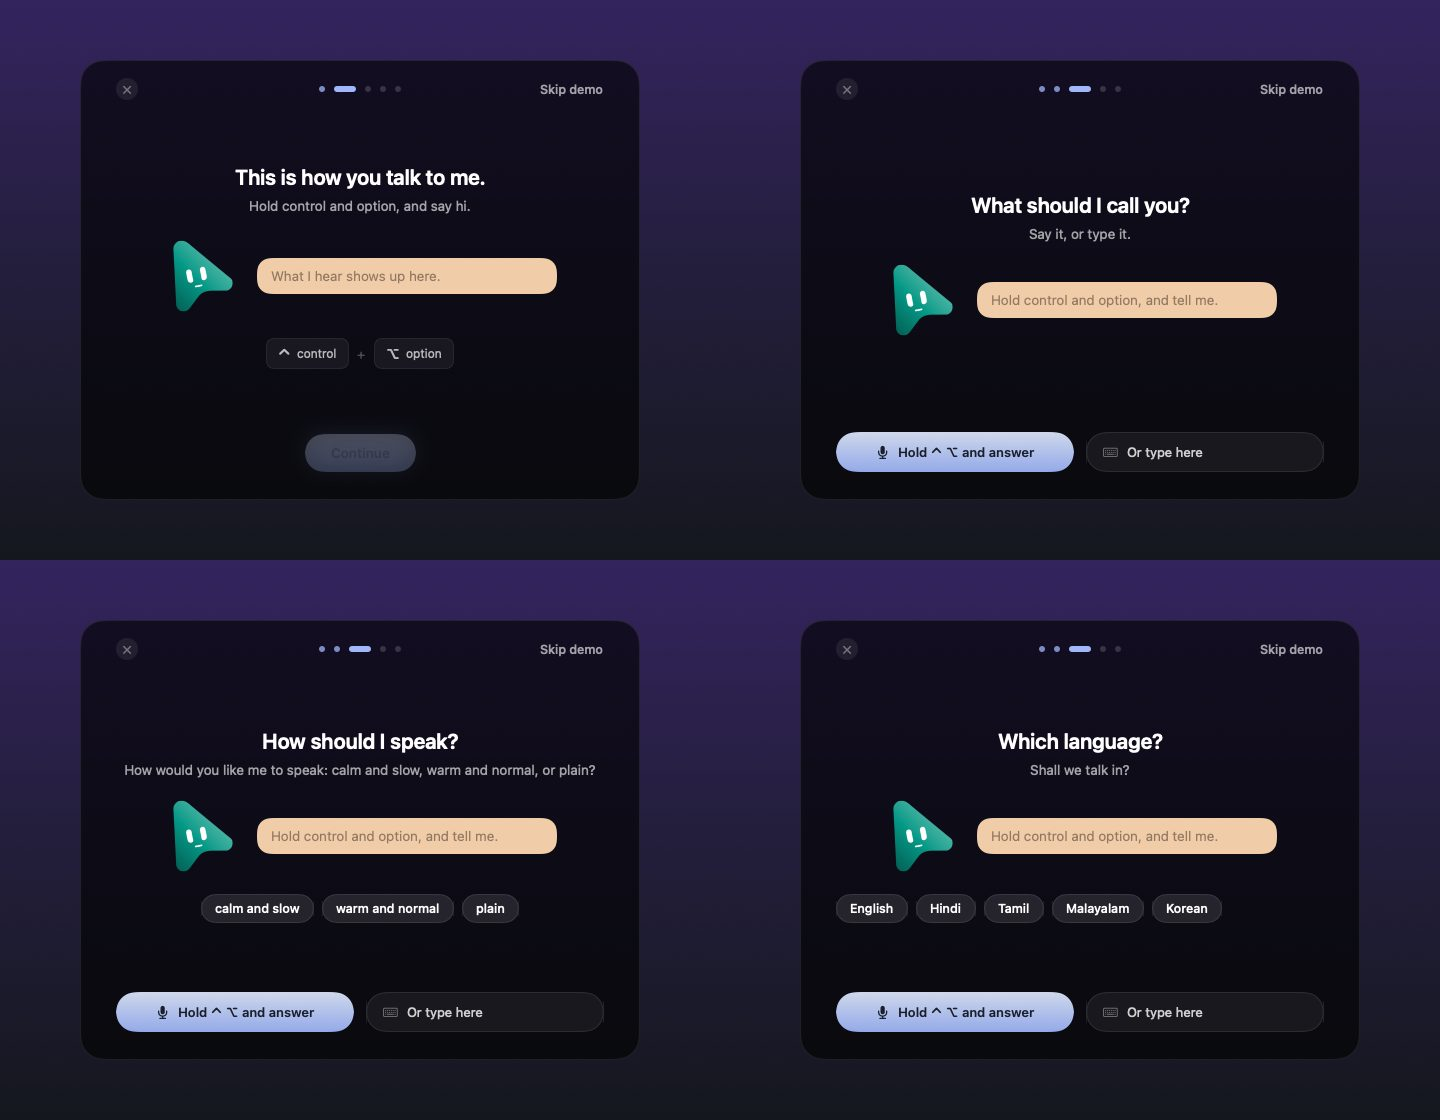
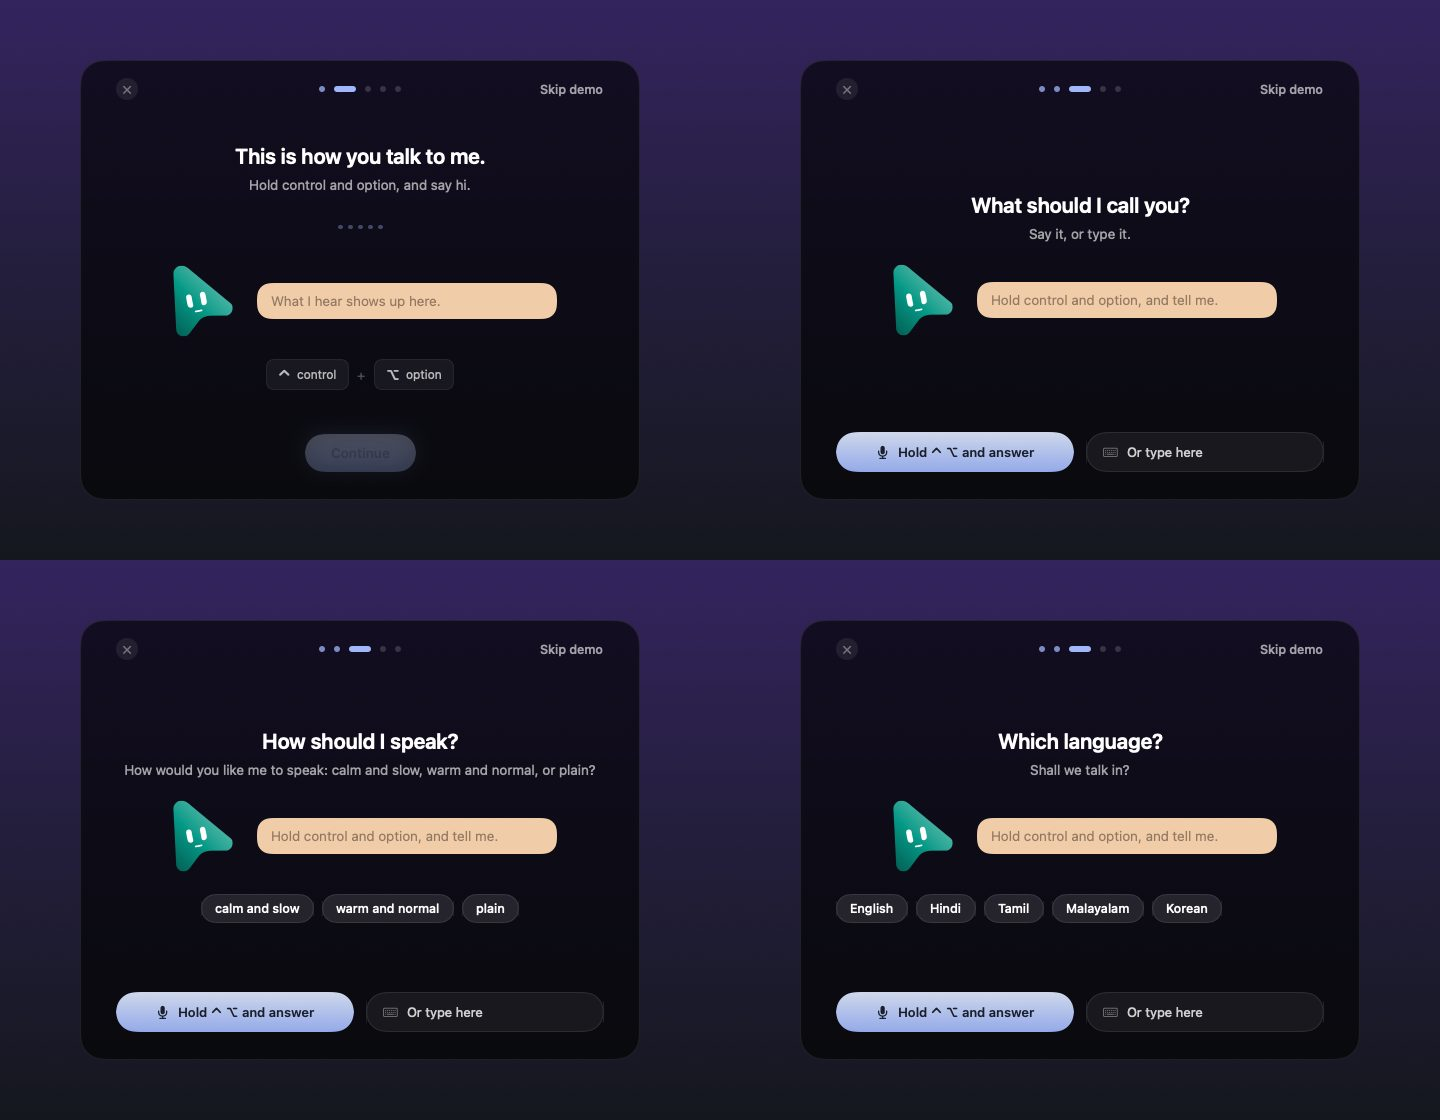
The mic check has its bars, and shows the words as they are made out
The chain session reports an input level about twenty times a second while a
turn is open, and what has been recognised so far. The level is in decibels:
on a linear scale ordinary speech sits in the bottom tenth and the bars barely
twitch, which reads as 'it cannot hear me'. They rise at once and fall slowly,
so they do not flicker between syllables, and rest when the turn ends. The
spoken line promises bars again, now that there are some.

Changed region(s): [[0.0938, 0.2188, 0.4062, 0.3438], [0.1562, 0.125, 0.3438, 0.1875]]

diff --git a/macos/Saathi/Tests/SaathiShellTests/OnboardingCoordinatorTests.swift b/macos/Saathi/Tests/SaathiShellTests/OnboardingCoordinatorTests.swift
@@ -321,7 +321,7 @@ final class OnboardingCoordinatorTests: XCTestCase {
         await toMicCheck(c)
         XCTAssertEqual(listening, [true])
         XCTAssertTrue(c.isListening)
-        XCTAssertEqual(spoken.last, "Can I hear you? Say anything, and I'll show you what I heard.")
+        XCTAssertEqual(spoken.last, "Can I hear you? Say anything. You'll see the bars move, and I'll show you what I heard.")
 
         try? await Task.sleep(nanoseconds: 120_000_000)
         XCTAssertEqual(listening, [true, false], "stopping is what makes the session hand over a transcript")
@@ -338,6 +338,33 @@ final class OnboardingCoordinatorTests: XCTestCase {
         await toMicCheck(c)
         c.skipDemo(); await settle(c)
         XCTAssertEqual(listening, [true, false])
+    }
+
+    /// The bars rise at once and fall slowly — bars that drop to nothing between syllables flicker —
+    /// and what has been made out so far shows before the turn has ended.
+    func testTheBarsAndTheLiveWordsFollowAnOpenTurnAndRestWhenItEnds() async {
+        let c = coordinator()
+        c.listenFor = 5
+        await toMicCheck(c)
+        c.listening(level: 0.8, partial: nil)
+        XCTAssertEqual(c.level, 0.8, accuracy: 0.001)
+        c.listening(level: 0.1, partial: "hello sa")
+        XCTAssertEqual(c.level, 0.64, accuracy: 0.001, "down slowly")
+        XCTAssertEqual(c.bubble, "hello sa")
+        XCTAssertFalse(c.model.heardSomething, "a preview is not yet being heard: the turn has not ended")
+
+        c.heard("hello saathi")
+        XCTAssertEqual(c.level, 0)
+        XCTAssertEqual(c.bubble, "hello saathi")
+        XCTAssertTrue(c.model.canContinue)
+    }
+
+    func testLevelsOutsideTheListeningCardsAreIgnored() async {
+        let c = coordinator()
+        c.begin()
+        c.listening(level: 0.9, partial: "hello")
+        XCTAssertEqual(c.level, 0)
+        XCTAssertEqual(c.bubble, "")
     }
 
     /// A room too quiet to transcribe is not a locked door.
@@ -436,5 +463,18 @@ final class OnboardingEntryTests: XCTestCase {
     /// Quit halfway through: a colour and a name are on disk, `onboarded` is not. It comes back.
     func testAnInterruptedFirstRunComesBack() {
         XCTAssertTrue(AppController.shouldOnboard(SaathiConfiguration(name: "Asha", colour: "teal")))
+    }
+}
+
+
+final class OnboardingBarsTests: XCTestCase {
+
+    func testBarsRestSmallAndTheMiddleOneIsTallest() {
+        XCTAssertEqual(OnboardingCardView.barHeight(level: 0, shape: 1), 4)
+        XCTAssertEqual(OnboardingCardView.barHeight(level: 1, shape: 1), 30)
+        XCTAssertEqual(OnboardingCardView.barHeight(level: 7, shape: 1), 30, "clamped")
+        XCTAssertLessThan(
+            OnboardingCardView.barHeight(level: 0.5, shape: OnboardingCardView.barShape[0]),
+            OnboardingCardView.barHeight(level: 0.5, shape: OnboardingCardView.barShape[2]))
     }
 }

diff --git a/macos/Saathi/Sources/SaathiShell/OnboardingCoordinator.swift b/macos/Saathi/Sources/SaathiShell/OnboardingCoordinator.swift
@@ -59,6 +59,8 @@ public final class OnboardingCoordinator: ObservableObject {
     @Published public private(set) var isSpeaking = false
     /// The mic check has a turn open: the card shows that it is listening.
     @Published public private(set) var isListening = false
+    /// How loud the microphone is, 0…1, while a turn is open. The bars on the listening cards.
+    @Published public private(set) var level: Float = 0
 
     private let effects: OnboardingEffects
     private var speech: Task<Void, Never>?
@@ -94,6 +96,7 @@ public final class OnboardingCoordinator: ObservableObject {
     /// A transcript from the voice session. On a question it is the answer; on the two listening
     /// steps it is proof of being heard; anywhere else it is not first run's business.
     public func heard(_ text: String) {
+        level = 0   // the turn is over; the bars come to rest
         switch model.step {
         case .demo(.question):
             bubble = text
@@ -107,6 +110,21 @@ public final class OnboardingCoordinator: ObservableObject {
     }
 
     public func keysHeld() { send(.keysHeld) }
+
+    /// Live from an open turn: how loud, and what has been made out so far. Only the cards that
+    /// listen show either; the words are a preview, and the turn's final transcript still arrives
+    /// through `heard`.
+    public func listening(level: Float?, partial: String?) {
+        switch model.step {
+        case .demo(.micCheck), .demo(.holdToTalk), .demo(.question): break
+        default: return
+        }
+        if let level {
+            // Up at once, down slowly: bars that fall to nothing between syllables flicker.
+            self.level = max(level, self.level * 0.8)
+        }
+        if let partial, !partial.isEmpty { bubble = partial }
+    }
 
     /// The session listened and got nothing. Once is a quiet moment; twice, the mic check stops
     /// insisting — a room too quiet to transcribe must not be a locked door.
@@ -135,6 +153,7 @@ public final class OnboardingCoordinator: ObservableObject {
         listening = nil
         guard isListening else { return }
         isListening = false
+        level = 0
         effects.setListening(false)
     }
 
@@ -204,7 +223,10 @@ public final class OnboardingCoordinator: ObservableObject {
 
         effects.save(model)
 
-        if before.step != model.step { stopListening() }
+        if before.step != model.step {
+            stopListening()
+            level = 0
+        }
         if before.step == .demo(.trialChat), model.step != .demo(.trialChat), trialChatActive {
             trialChatActive = false
             // Not when first run is ending: the app starts a fresh session then, and this swap

diff --git a/macos/Saathi/Sources/SaathiShell/VoiceConductor.swift b/macos/Saathi/Sources/SaathiShell/VoiceConductor.swift
@@ -30,6 +30,7 @@ public final class VoiceConductor {
     private let stopSpeaking: @MainActor () -> Void
     private let onEvent: @MainActor (CompanionEvent) -> Void
     private let onScreenLook: @MainActor (_ question: String, _ answer: String) -> Void
+    private let onListening: @MainActor (_ level: Float?, _ partial: String?) -> Void
 
     private var session: (any VoiceSession)?
     private var turns: TurnCoordinator?
@@ -53,13 +54,15 @@ public final class VoiceConductor {
         perform: @escaping @Sendable (SaathiAction) async throws -> Void,
         stopSpeaking: @escaping @MainActor () -> Void,
         onEvent: @escaping @MainActor (CompanionEvent) -> Void,
-        onScreenLook: @escaping @MainActor (_ question: String, _ answer: String) -> Void = { _, _ in }
+        onScreenLook: @escaping @MainActor (_ question: String, _ answer: String) -> Void = { _, _ in },
+        onListening: @escaping @MainActor (_ level: Float?, _ partial: String?) -> Void = { _, _ in }
     ) {
         self.makeSession = makeSession
         self.perform = perform
         self.stopSpeaking = stopSpeaking
         self.onEvent = onEvent
         self.onScreenLook = onScreenLook
+        self.onListening = onListening
     }
 
     // MARK: starting
@@ -94,7 +97,9 @@ public final class VoiceConductor {
                 onStatus: { [weak self] status in Task { @MainActor in self?.onEvent(.status(status)) } },
                 onScreenLook: { [weak self] question, answer in
                     Task { @MainActor in self?.onScreenLook(question, answer) }
-                }
+                },
+                onInputLevel: { [weak self] level in Task { @MainActor in self?.onListening(level, nil) } },
+                onPartialTranscript: { [weak self] text in Task { @MainActor in self?.onListening(nil, text) } }
             )
             // Cancelling any previous start before racing a fresh one in keeps at most one
             // start in flight — see `startTask`'s doc comment.

diff --git a/macos/Saathi/Tests/SaathiKitTests/OnboardingAnswersTests.swift b/macos/Saathi/Tests/SaathiKitTests/OnboardingAnswersTests.swift
@@ -6,6 +6,7 @@
 //  "uh, Asha.", or "call me Ash". These pin what is kept.
 //
 
+import AVFoundation
 import XCTest
 import SaathiContract
 @testable import SaathiKit
@@ -117,5 +118,32 @@ final class OnboardingLanguagesTests: XCTestCase {
 
     func testNoRecogniserAtAllStillOffersSomething() {
         XCTAssertEqual(OnboardingLanguages.entries(from: [], machine: "en-US"), [.init(tag: "en-US", name: "English")])
+    }
+}
+
+
+final class InputLevelTests: XCTestCase {
+
+    /// Decibels, not raw amplitude: on a linear scale ordinary speech sits in the bottom tenth and
+    /// the bars barely move, which reads as "it cannot hear me".
+    func testOrdinarySpeechMovesTheBarsAndSilenceDoesNot() {
+        XCTAssertEqual(InputLevel.normalised(rms: 0), 0)
+        XCTAssertEqual(InputLevel.normalised(rms: 0.001), 0, "room noise, -60 dB")
+        XCTAssertGreaterThan(InputLevel.normalised(rms: 0.05), 0.5, "speech at arm's length, about -26 dB")
+        XCTAssertEqual(InputLevel.normalised(rms: 0.5), 1, "close and loud is simply full")
+        XCTAssertEqual(InputLevel.normalised(rms: .nan), 0)
+        XCTAssertEqual(InputLevel.normalised(rms: -1), 0)
+    }
+
+    func testTheLevelOfABufferIsItsFirstChannelsRMS() throws {
+        let format = try XCTUnwrap(AVAudioFormat(standardFormatWithSampleRate: 48_000, channels: 1))
+        let buffer = try XCTUnwrap(AVAudioPCMBuffer(pcmFormat: format, frameCapacity: 480))
+        buffer.frameLength = 480
+        XCTAssertEqual(InputLevel.level(of: buffer), 0, "silence")
+        let channel = try XCTUnwrap(buffer.floatChannelData?[0])
+        for index in 0..<480 { channel[index] = index.isMultiple(of: 2) ? 0.1 : -0.1 }
+        XCTAssertEqual(InputLevel.level(of: buffer), InputLevel.normalised(rms: 0.1), accuracy: 0.0001)
+        buffer.frameLength = 0
+        XCTAssertEqual(InputLevel.level(of: buffer), 0)
     }
 }

diff --git a/macos/Saathi/Sources/SaathiKit/VoiceSession.swift b/macos/Saathi/Sources/SaathiKit/VoiceSession.swift
@@ -29,19 +29,29 @@ public struct VoiceSessionCallbacks: Sendable {
     /// A screen look finished: what the model asked the eyes, and what they answered — or why they
     /// could not look. The answer goes back to the model either way; this is so it can be kept.
     public var onScreenLook: (@Sendable (_ question: String, _ answer: String) -> Void)?
+    /// How loud the microphone is right now, 0…1, about twenty times a second while a turn is open.
+    /// For showing someone they are being heard; nothing is decided from it.
+    public var onInputLevel: (@Sendable (Float) -> Void)?
+    /// What has been recognised so far in the open turn. The chain lane only; the final transcript
+    /// still arrives through `onUserTranscript` when the turn ends.
+    public var onPartialTranscript: (@Sendable (String) -> Void)?
 
     public init(
         onUserTranscript: (@Sendable (String) -> Void)? = nil,
         onSaathiTranscript: (@Sendable (String) -> Void)? = nil,
         onAction: (@Sendable (SaathiAction) -> Void)? = nil,
         onStatus: (@Sendable (String) -> Void)? = nil,
-        onScreenLook: (@Sendable (String, String) -> Void)? = nil
+        onScreenLook: (@Sendable (String, String) -> Void)? = nil,
+        onInputLevel: (@Sendable (Float) -> Void)? = nil,
+        onPartialTranscript: (@Sendable (String) -> Void)? = nil
     ) {
         self.onUserTranscript = onUserTranscript
         self.onSaathiTranscript = onSaathiTranscript
         self.onAction = onAction
         self.onStatus = onStatus
         self.onScreenLook = onScreenLook
+        self.onInputLevel = onInputLevel
+        self.onPartialTranscript = onPartialTranscript
     }
 }
 

diff --git a/macos/Saathi/Sources/SaathiKit/InputLevel.swift b/macos/Saathi/Sources/SaathiKit/InputLevel.swift
@@ -1,0 +1,39 @@
+//
+//  InputLevel.swift
+//  SaathiKit
+//
+//  How loud the microphone is, as a number a row of bars can be drawn from.
+//
+//  Loudness is heard logarithmically, so the bars are driven by decibels, not by the raw RMS: on a
+//  linear scale ordinary speech sits in the bottom tenth and the bars barely twitch, which reads
+//  as "it cannot hear me" — the opposite of what they are there to say.
+//
+
+import AVFoundation
+
+public enum InputLevel {
+
+    /// Below this is room noise; at or above `ceiling` the bars are full.
+    static let floor: Float = -50
+    static let ceiling: Float = -12
+
+    /// 0…1 from a root-mean-square amplitude in 0…1.
+    public static func normalised(rms: Float) -> Float {
+        guard rms > 0, rms.isFinite else { return 0 }
+        let decibels = 20 * log10(rms)
+        return min(1, max(0, (decibels - floor) / (ceiling - floor)))
+    }
+
+    static func rms(_ samples: UnsafeBufferPointer<Float>) -> Float {
+        guard !samples.isEmpty else { return 0 }
+        var sum: Float = 0
+        for sample in samples { sum += sample * sample }
+        return (sum / Float(samples.count)).squareRoot()
+    }
+
+    /// The level of one tap buffer's first channel. 0 for a buffer that is not float PCM.
+    public static func level(of buffer: AVAudioPCMBuffer) -> Float {
+        guard let channel = buffer.floatChannelData?[0], buffer.frameLength > 0 else { return 0 }
+        return normalised(rms: rms(UnsafeBufferPointer(start: channel, count: Int(buffer.frameLength))))
+    }
+}

diff --git a/macos/Saathi/Sources/SaathiShell/OnboardingCardView.swift b/macos/Saathi/Sources/SaathiShell/OnboardingCardView.swift
@@ -295,9 +295,31 @@ struct OnboardingCardView: View {
             .background(RoundedRectangle(cornerRadius: 14, style: .continuous).fill(OnboardingStyle.bubble))
     }
 
+    /// Five bars, the middle one tallest, all driven by the one level. They say "I can hear you"
+    /// before any word has been made out, which on a first run is the more reassuring half.
+    static let barShape: [CGFloat] = [0.45, 0.75, 1, 0.75, 0.45]
+
+    static func barHeight(level: Float, shape: CGFloat, resting: CGFloat = 4, full: CGFloat = 30) -> CGFloat {
+        resting + (full - resting) * CGFloat(min(1, max(0, level))) * shape
+    }
+
+    private var levelBars: some View {
+        HStack(alignment: .center, spacing: 5) {
+            ForEach(Array(Self.barShape.enumerated()), id: \.offset) { _, shape in
+                Capsule()
+                    .fill(OnboardingStyle.pillBottom.opacity(coordinator.level > 0.02 ? 1 : 0.35))
+                    .frame(width: 5, height: Self.barHeight(level: coordinator.level, shape: shape))
+            }
+        }
+        .frame(height: 32)
+        .animation(.easeOut(duration: 0.08), value: coordinator.level)
+        .accessibilityHidden(true)
+    }
+
     private func listening(showKeys: Bool) -> some View {
-        VStack(spacing: 22) {
+        VStack(spacing: 18) {
             heading()
+            levelBars
             HStack(alignment: .center, spacing: 14) {
                 face(80)
                 speechBubble(

diff --git a/macos/Saathi/Sources/SaathiKit/ChainVoiceSession.swift b/macos/Saathi/Sources/SaathiKit/ChainVoiceSession.swift
@@ -111,8 +111,10 @@ public final class ChainVoiceSession: NSObject, VoiceSession, @unchecked Sendabl
         guard format.sampleRate > 0, format.channelCount > 0 else {
             throw VoiceError.audio("no microphone input available")
         }
+        let onInputLevel = state.withLock { $0.callbacks.onInputLevel }
         inputNode.installTap(onBus: 0, bufferSize: 2400, format: format) { buffer, _ in
             request.append(buffer)
+            onInputLevel?(InputLevel.level(of: buffer))
         }
         engine.prepare()
         try engine.start()
@@ -129,6 +131,7 @@ public final class ChainVoiceSession: NSObject, VoiceSession, @unchecked Sendabl
             guard let self, let result else { return }
             let text = result.bestTranscription.formattedString
             self.state.withLock { $0.latestTranscript = text }
+            callbacks.onPartialTranscript?(text)
         }
         state.withLock { $0.recognitionTask = task }
     }

diff --git a/macos/Saathi/Tests/SaathiShellTests/OnboardingSnapshotTests.swift b/macos/Saathi/Tests/SaathiShellTests/OnboardingSnapshotTests.swift
@@ -81,7 +81,10 @@ final class OnboardingSnapshotTests: XCTestCase {
                 for _ in 0..<5 { await Task.yield() }
                 try await Task.sleep(nanoseconds: 30_000_000)
             }
-            if let bubble = shot.bubble { coordinator.heard(bubble) }
+            if let bubble = shot.bubble {
+                coordinator.heard(bubble)
+                coordinator.listening(level: 0.7, partial: nil)   // so the drawing shows the bars up
+            }
 
             let colour = MascotColor(paletteName: model.colour ?? "blue", in: data) ?? MascotColor(hex: "#377FE6")
             let mascot = MascotView(data: data, color: colour, expression: OnboardingWindowController.expression(for: model, isSpeaking: false),

diff --git a/macos/Saathi/Sources/SaathiKit/OnboardingScript.swift b/macos/Saathi/Sources/SaathiKit/OnboardingScript.swift
@@ -74,9 +74,7 @@ public enum OnboardingScript {
         case .micCheck:
             return OnboardingLine(
                 title: "Can I hear you?",
-                // No level bars yet — the audio engine has no tap to drive them — so the line does
-                // not promise any. The transcript is the proof of being heard.
-                spoken: "Can I hear you? Say anything, and I'll show you what I heard.")
+                spoken: "Can I hear you? Say anything. You'll see the bars move, and I'll show you what I heard.")
         case .holdToTalk:
             return OnboardingLine(
                 title: "This is how you talk to me.",

diff --git a/macos/Saathi/Sources/SaathiShell/AppController.swift b/macos/Saathi/Sources/SaathiShell/AppController.swift
@@ -79,7 +79,9 @@ public final class AppController {
             onEvent: { [weak self] in self?.handle($0) },
             onScreenLook: { [weak self] question, answer in
                 self?.conversation.append(.look(question: question, answer: answer))
-            })
+            },
+            // Only first run draws these; the rest of the app has the face for that.
+            onListening: { [weak self] level, partial in self?.onboarding?.listening(level: level, partial: partial) })
         wireMenu()
         wireNotch()
     }

diff --git a/docs/superpowers/specs/2026-09-22-first-run-cards.md b/docs/superpowers/specs/2026-09-22-first-run-cards.md
@@ -68,9 +68,9 @@ type it." underneath.
 
 ## Not built, on purpose
 
-- **Level bars and the input device picker** on the mic check. Neither session exposes an input
-  level, and the line Saathi speaks no longer promises bars. The transcript bubble is the proof of
-  being heard.
+- **The input device picker** on the mic check. The level bars *are* there: the chain session
+  reports an input level (in decibels, so ordinary speech actually moves them) and what it has made
+  out so far, and the listening cards show both live.
 - **Back.** `OnboardingModel` has no backwards event. HeyClicky has one; nothing in the spec does.
 - **The one-line model reaction** to each answer (spec step 6.3, two-second budget). The scripted
   acknowledgement is always spoken; the reaction would be a second voice arriving late.
